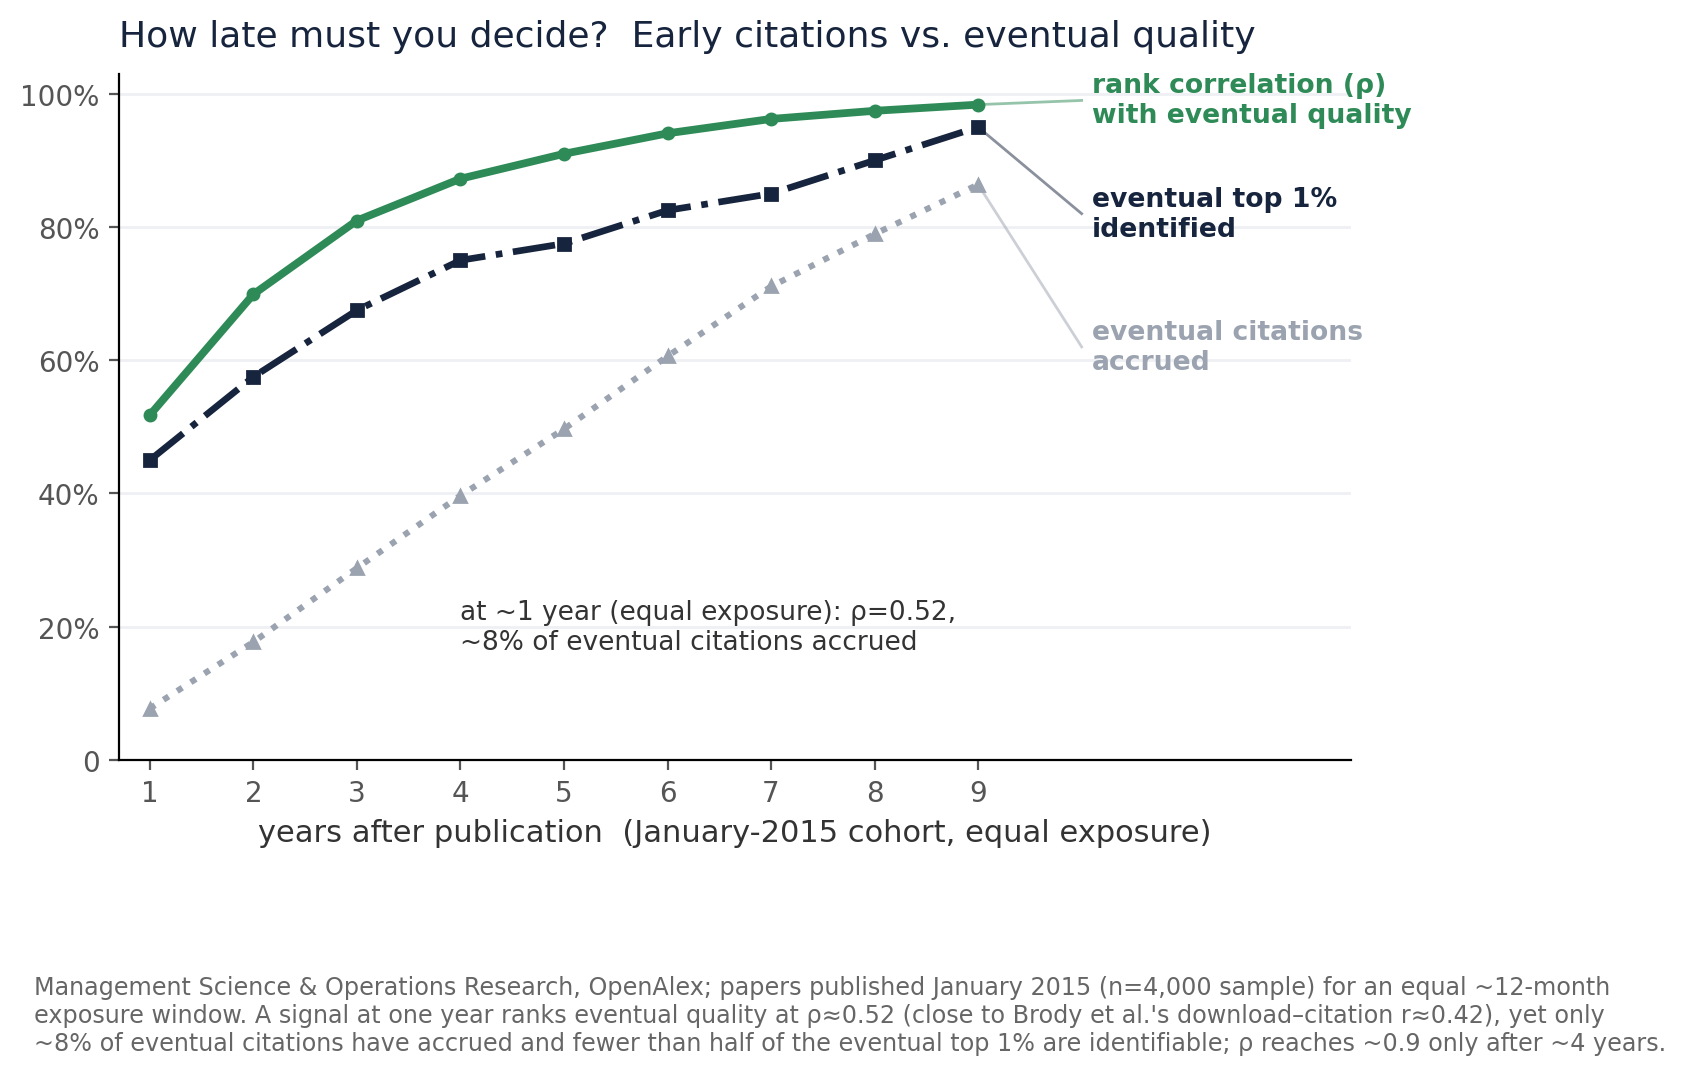
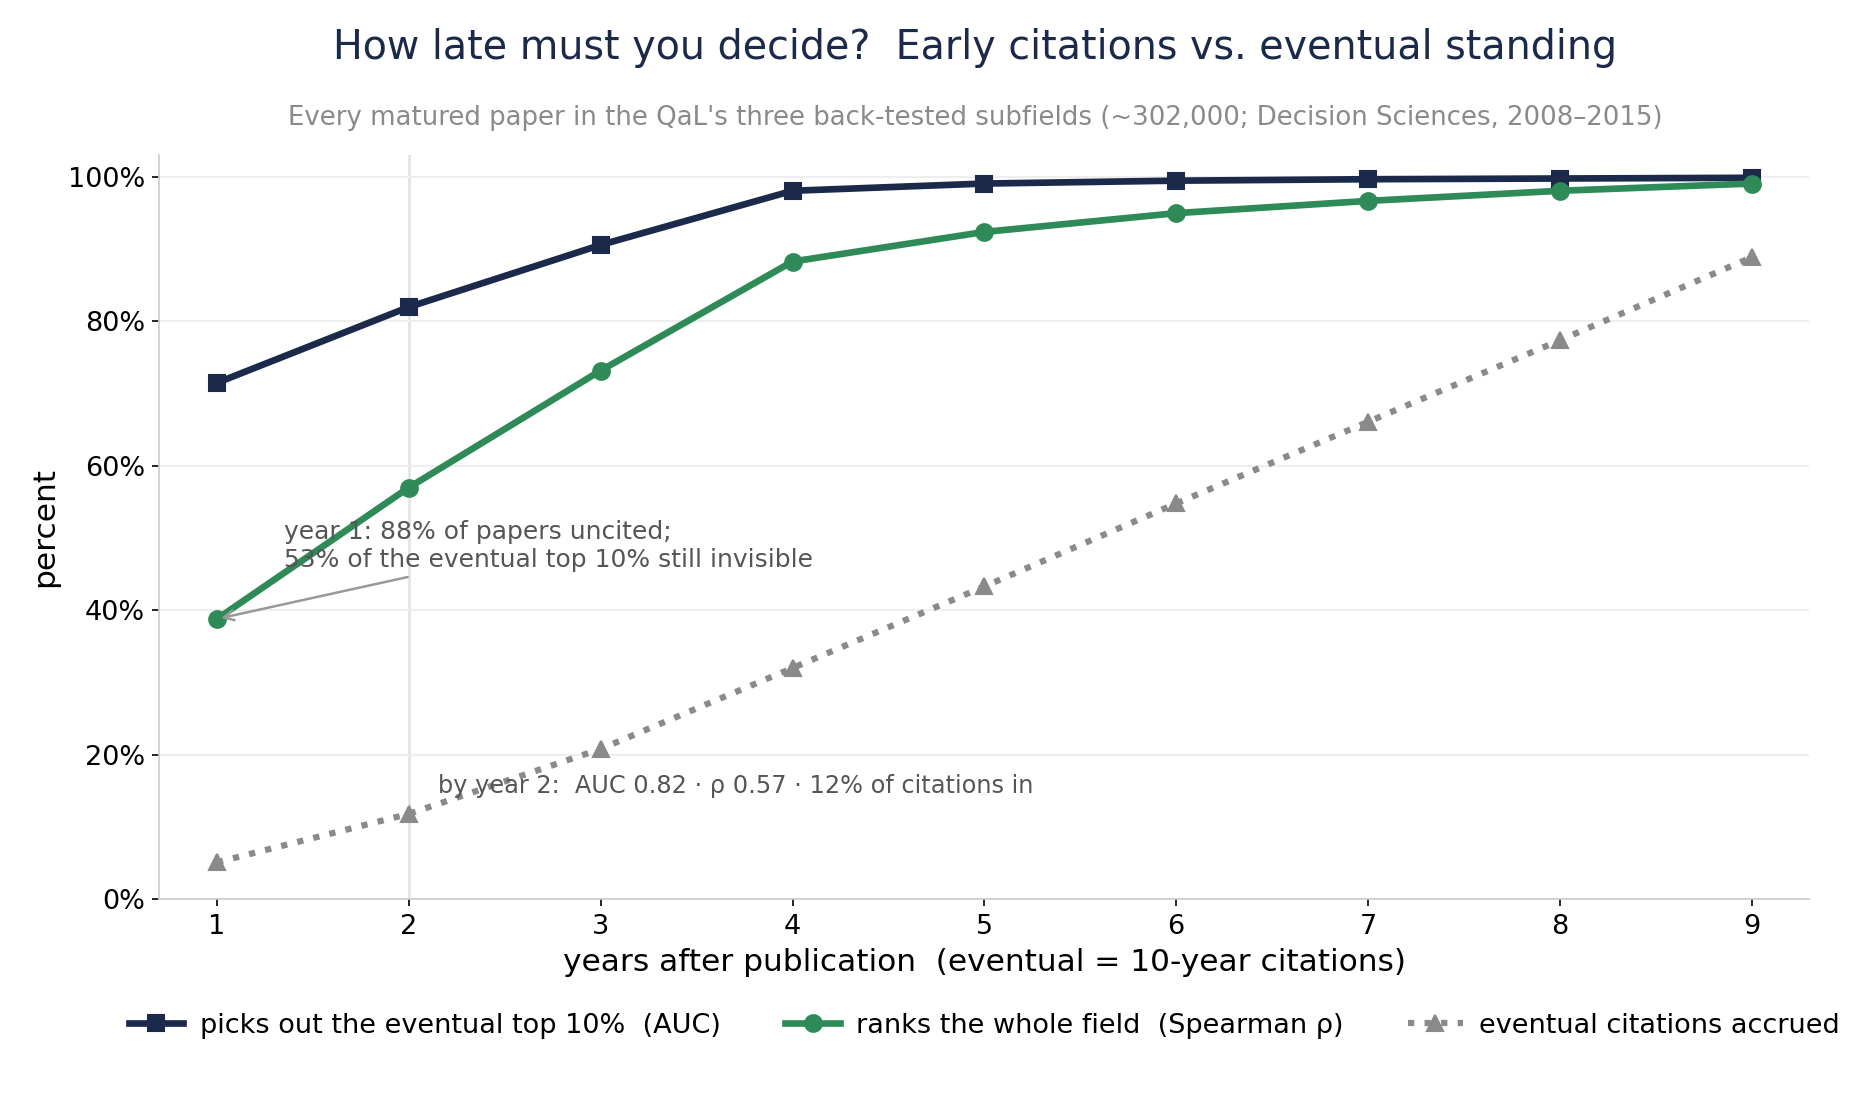
talk: add early-signal evidence slide (early citations predict eventual rank)
New slide after "More Reviewers Barely Help": the empirical case for deciding
late from the opposite direction. Computed on the QaL's own back-tested sample
— ~302k matured papers across the three Decision-Sciences subfields (2008-2015)
— early citations vs eventual (10-year) within-cohort rank.

Handles the atom at zero (60-88% uncited) properly: a single rank correlation
distorts both ways — Spearman inflates (the (0,0) mass reads as concordant),
Kendall tau-b is structurally floored by the ties. The atom-robust read is AUC
for the eventual top decile: 0.72 (yr1) -> 0.82 (yr2) -> 0.98 (yr4). Full picture
is slow: 12% of eventual citations in by yr2, 43% by yr5.

Adds pipeline/early_signal_analysis.py (reproducible, DB-driven),
pipeline/make_fig_early_signal.py, refreshed fig_early_signal.png (now
multi-field), and the write-up in docs/early_signal_result.md (single-field
MS&OR pilot retained as a cross-check).

diff --git a/web/public/talk.html b/web/public/talk.html
@@ -278,6 +278,24 @@
     </section>
 
     <section>
+      <h2>Early Citations Do Predict Eventual Standing — Slowly</h2>
+<div style="display:flex; gap:28px; align-items:center;">
+<div style="flex:1; min-width:0;">
+<ul>
+<li><strong>Early citations do predict eventual rank</strong> — on the 302k papers behind the QaL's calibration (three Decision-Sciences subfields, 2008–2015; eventual = the 10-year percentile)</li>
+<li>You can <strong>pick out the eventual top 10% early</strong> — AUC <strong>0.82 by year 2</strong>, <strong>0.98 by year 4</strong></li>
+<li>But the <strong>atom at zero</strong> (88% uncited at year 1) flatters a plain rank correlation (<strong>Spearman ρ 0.39</strong>) and floors the tie-corrected one (<strong>Kendall τ‑b 0.20</strong>); <strong>AUC — which ignores the uncited mass — is the honest read</strong></li>
+<li>The <strong>magnitude</strong> matures slowly — only <strong>12%</strong> of eventual citations are in by year 2, <strong>43%</strong> by year 5</li>
+</ul>
+<p><span class="small"><strong>Real signal early, full picture late</strong> — the empirical case for deciding late.</span></p>
+</div>
+<div style="flex:1.6; min-width:0;">
+<p><img src="images/fig_early_signal.png" style="max-width:100%;"></p>
+</div>
+</div>
+    </section>
+
+    <section>
       <h2>The System has Always been Infuriating; It May Be Getting Worse</h2>
 <ul>
 <li>

diff --git a/pipeline/early_signal_analysis.py b/pipeline/early_signal_analysis.py
@@ -1,0 +1,90 @@
+"""Multi-field early-signal analysis: do early citations predict eventual (10-year) within-cohort rank?
+
+Runs on the QaL's own back-tested calibration cohorts (DB works.counts_by_year): the three
+Decision-Sciences subfields (Management Science & OR, Information Systems & Management, General
+Decision Sciences), publication years 2008-2015, cohorts >=200 papers (~302k papers total).
+For each age 1..9 it aggregates (paper-weighted) Spearman rho, Kendall tau-b, AUC for the eventual
+top decile, % uncited, share of eventual citations accrued, and % of the eventual top decile still
+uncited. Feeds pipeline/make_fig_early_signal.py and docs/early_signal_result.md.
+
+Run:  PYTHONPATH=pipeline .venv/bin/python pipeline/early_signal_analysis.py
+"""
+
+import _env; _env.load_env()
+import os, psycopg, json, numpy as np
+
+VINTAGES=range(2008,2016); H=10; MINN=200; AGES=list(range(1,10))
+def cum(cby, v, age): return sum(val for y,val in cby.items() if int(y)<=v+age)
+
+def spearman(a,b):
+    ra=np.argsort(np.argsort(a,kind='stable')); rb=np.argsort(np.argsort(b,kind='stable'))
+    # average ranks for ties
+    ra=_avgrank(a); rb=_avgrank(b)
+    return np.corrcoef(ra,rb)[0,1]
+def _avgrank(x):
+    x=np.asarray(x,float); order=np.argsort(x,kind='stable'); r=np.empty(len(x)); i=0
+    while i<len(x):
+        j=i
+        while j+1<len(x) and x[order[j+1]]==x[order[i]]: j+=1
+        r[order[i:j+1]]=(i+j)/2+1; i=j+1
+    return r
+def auc_top(pred, ev):  # AUC for eventual-top-10% (within cohort) from pred
+    n=len(ev); thr=np.sort(ev)[int(0.9*n)]
+    pos=(ev>=thr)&(ev>0)
+    if pos.sum()==0 or pos.sum()==n: return None
+    r=_avgrank(pred); s=r[pos].sum(); npos=pos.sum(); nneg=n-npos
+    return (s-npos*(npos+1)/2)/(npos*nneg)
+def taub(a,b,cap=1400,seed=0):
+    a=np.asarray(a,float); b=np.asarray(b,float)
+    if len(a)>cap:
+        rng=np.random.default_rng(seed); idx=rng.choice(len(a),cap,replace=False); a=a[idx]; b=b[idx]
+    da=np.sign(a[:,None]-a[None,:]); db=np.sign(b[:,None]-b[None,:])
+    iu=np.triu_indices(len(a),1); sa=da[iu]; sb=db[iu]
+    nc=np.sum((sa*sb)>0); nd=np.sum((sa*sb)<0)
+    ta=np.sum((sa==0)&(sb!=0)); tb=np.sum((sb==0)&(sa!=0)); n0=len(sa)
+    d=np.sqrt((n0-ta)*(n0-tb)); return (nc-nd)/d if d>0 else None
+
+with psycopg.connect(os.environ["DATABASE_URL"]) as c, c.cursor() as cur:
+    cur.execute("select primary_subfield, publication_year, counts_by_year from works where publication_year between 2008 and 2015 and counts_by_year is not null")
+    rows=cur.fetchall()
+print(f"pulled {len(rows)} works", flush=True)
+coh={}
+for sf,yr,cby in rows:
+    if isinstance(cby,str): cby=json.loads(cby)
+    coh.setdefault((sf,yr),[]).append(cby)
+cohorts=[(k,v) for k,v in coh.items() if len(v)>=MINN]
+npapers=sum(len(v) for _,v in cohorts)
+print(f"{len(cohorts)} cohorts (>={MINN}), {npapers} papers", flush=True)
+
+# accumulators (size-weighted by cohort n)
+agg={a:{'rho':[],'auc':[],'w':[],'unc':0,'ncit_e':0,'ncit_a':0,'nstar':0,'star_unc':0,'ntot':0} for a in AGES}
+taub_acc={a:[] for a in AGES}; taub_w={a:[] for a in AGES}
+for (sf,yr),cbys in cohorts:
+    ev=np.array([cum(cb,yr,H) for cb in cbys],float); n=len(ev)
+    thr=np.sort(ev)[int(0.9*n)]; star=(ev>=thr)&(ev>0)
+    for a in AGES:
+        ca=np.array([cum(cb,yr,a) for cb in cbys],float)
+        rho=spearman(ca,ev); au=auc_top(ca,ev)
+        d=agg[a]
+        if not np.isnan(rho): d['rho'].append(rho*n)
+        if au is not None: d['auc'].append(au*n)
+        d['w'].append(n)
+        d['unc']+=int((ca==0).sum()); d['ntot']+=n
+        d['ncit_e']+=ev.sum(); d['ncit_a']+=ca.sum()
+        d['nstar']+=int(star.sum()); d['star_unc']+=int(((ca==0)&star).sum())
+        if True:
+            tb=taub(ca,ev)
+            if tb is not None: taub_acc[a].append(tb*n); taub_w[a].append(n)
+
+print("\nage  Spearman  Kendall-taub   AUC(top10%)  %uncited  cites-accrued  %stars-uncited")
+res={}
+for a in AGES:
+    d=agg[a]; W=sum(d['w'])
+    rho=sum(d['rho'])/W; auc=sum(d['auc'])/sum(d['w'][:len(d['auc'])]) if d['auc'] else float('nan')
+    auc=sum(d['auc'])/W  # weights align (n each)
+    unc=100*d['unc']/d['ntot']; accr=100*d['ncit_a']/d['ncit_e']; su=100*d['star_unc']/d['nstar']
+    tb= (sum(taub_acc[a])/sum(taub_w[a])) if a in taub_acc and taub_acc[a] else None
+    res[a]={'rho':round(rho,3),'taub':round(tb,3) if tb else None,'auc':round(auc,3),'unc':round(unc,1),'accr':round(accr,1),'star_unc':round(su,1)}
+    print(f"{a:>3}  {rho:>7.3f}  {('%.3f'%tb) if tb else '   -  ':>10}   {auc:>9.3f}  {unc:>7.1f}  {accr:>11.1f}  {su:>11.1f}")
+json.dump({'ncohorts':len(cohorts),'npapers':npapers,'by_age':res}, open("/private/tmp/claude-503/-Users-ulrich-Library-CloudStorage-GoogleDrive-ktulrich-gmail-com-My-Drive-00-AI-CoWorker-General-academicLedger/3025658f-2013-43e0-a540-cbc1a0198bac/scratchpad/early_signal_mf_result.json","w"), indent=2)
+print("\nsaved result json")

diff --git a/pipeline/make_fig_early_signal.py b/pipeline/make_fig_early_signal.py
@@ -1,0 +1,72 @@
+"""Regenerate web/public/images/fig_early_signal.png for the talk's "decide late" evidence slide.
+
+Empirical proof that early citations predict a paper's EVENTUAL (10-year) within-cohort rank —
+computed on the QaL's own back-tested calibration sample: the three Decision-Sciences subfields
+(Management Science & Operations Research, Information Systems & Management, General Decision
+Sciences), publication years 2008-2015, ~302,000 papers with OpenAlex counts_by_year. For each
+(subfield, vintage) cohort >=200 papers we cumulate citations at each age and at the 10-year
+horizon, then aggregate (paper-weighted) three curves vs age:
+
+  - rank correlation (Spearman rho) between the age-k count and the eventual count
+  - AUC for picking out the eventual top decile from the age-k count  (atom-robust: it ignores
+    the huge tied-at-zero mass, so unlike Spearman it isn't inflated by (0,0) concordances, and
+    unlike Kendall tau-b it isn't structurally floored by the ties)
+  - share of eventual citations already accrued
+
+The story: early citations pick out the eventual top decile well before the full ranking or the
+citation total matures. At year 1, 88% of papers are uncited and ~53% of the eventual top decile
+are still invisible; the signal is real but slow. Real signal early, full picture late — the
+empirical case for deciding late. (Recompute: scratchpad/early_signal_mf.py against the DB.)
+
+Re-run:  .venv/bin/python pipeline/make_fig_early_signal.py   (requires matplotlib)
+"""
+import os
+import numpy as np
+import matplotlib
+matplotlib.use("Agg")
+import matplotlib.pyplot as plt
+
+ROOT = os.path.dirname(os.path.dirname(os.path.abspath(__file__)))
+OUT = os.path.join(ROOT, "web", "public", "images", "fig_early_signal.png")
+GREEN, NAVY, GREY, DK = "#2e8b57", "#1b2a4a", "#8a8a8a", "#1b6b40"
+
+age = np.arange(1, 10)
+rho = np.array([0.388, 0.570, 0.732, 0.883, 0.924, 0.950, 0.967, 0.981, 0.991]) * 100
+auc = np.array([0.715, 0.820, 0.906, 0.981, 0.991, 0.995, 0.997, 0.998, 0.999]) * 100
+accr = np.array([5.1, 11.8, 20.8, 32.0, 43.3, 54.8, 66.1, 77.4, 88.9])
+
+plt.rcParams.update({"font.family": "DejaVu Sans", "axes.edgecolor": "#cccccc"})
+fig, ax = plt.subplots(figsize=(12.5, 7.4))
+fig.subplots_adjust(top=0.86, bottom=0.19, left=0.085, right=0.965)
+
+fig.suptitle("How late must you decide?  Early citations vs. eventual standing",
+             fontsize=19, color=NAVY, y=0.975, x=0.52)
+fig.text(0.52, 0.905, "Every matured paper in the QaL's three back-tested subfields "
+         "(~302,000; Decision Sciences, 2008–2015)", ha="center", va="top", fontsize=12.5, color=GREY)
+
+ax.grid(True, axis="y", color="#eeeeee", lw=1.0); ax.set_axisbelow(True)
+ax.plot(age, auc, "-", color=NAVY, lw=3.2, marker="s", ms=8, label="picks out the eventual top 10%  (AUC)")
+ax.plot(age, rho, "-", color=GREEN, lw=3.2, marker="o", ms=8, label="ranks the whole field  (Spearman ρ)")
+ax.plot(age, accr, ":", color=GREY, lw=3.0, marker="^", ms=8, label="eventual citations accrued")
+
+# the atom + the 2-year read
+ax.annotate("year 1: 88% of papers uncited;\n53% of the eventual top 10% still invisible",
+            xy=(1, rho[0]), xytext=(1.35, 46), fontsize=12, color="#555", ha="left",
+            arrowprops=dict(arrowstyle="->", color="#999", lw=1.2))
+ax.axvline(2, color="#e2e2e2", lw=1.2, zorder=0)
+ax.text(2.15, 14, "by year 2:  AUC 0.82 · ρ 0.57 · 12% of citations in", fontsize=11.5, color="#555", va="bottom")
+
+ax.set_xlabel("years after publication  (eventual = 10-year citations)", fontsize=15)
+ax.set_ylabel("percent", fontsize=15)
+ax.set_xlim(0.7, 9.3); ax.set_ylim(0, 103)
+ax.set_xticks(age); ax.set_yticks(range(0, 101, 20))
+ax.set_yticklabels([f"{v}%" for v in range(0, 101, 20)])
+ax.tick_params(labelsize=13)
+ax.legend(fontsize=13, loc="upper center", bbox_to_anchor=(0.5, -0.12), ncol=3,
+          frameon=False, handletextpad=0.6, columnspacing=2.4)
+for s in ("top", "right"):
+    ax.spines[s].set_visible(False)
+
+fig.savefig(OUT, dpi=150, facecolor="white")
+w, h = (fig.get_size_inches() * 150).astype(int)
+print(f"wrote {OUT}  ({w}x{h}px)")

diff --git a/docs/early_signal_result.md b/docs/early_signal_result.md
@@ -1,6 +1,29 @@
-# Does the early signal predict eventual quality? An in-field test
+# Does the early signal predict eventual quality?
 
-*Prepared June 2026. Result for Paper B (the measurement paper). Data: OpenAlex, Management Science and Operations Research (subfield 1803).*
+## Multi-field result (July 2026) — the QaL's own back-tested sample
+
+*This is the version in the talk (`fig_early_signal.png`, generated by `pipeline/make_fig_early_signal.py`). Reproduce the numbers with `pipeline/early_signal_analysis.py`.*
+
+Computed on every matured paper in the QaL's three back-tested Decision-Sciences subfields — Management Science & Operations Research, Information Systems & Management, and General Decision Sciences — publication years 2008–2015, ~302,000 papers with OpenAlex `counts_by_year`. For each (subfield, vintage) cohort of ≥200 papers we cumulate citations at each age and at the 10-year horizon, then aggregate paper-weighted.
+
+| Age | Spearman ρ | Kendall τ‑b | AUC (eventual top‑10%) | % uncited | eventual top‑10% still uncited | eventual citations accrued |
+|---|---|---|---|---|---|---|
+| 1 | 0.39 | 0.20 | 0.72 | 88% | 53% | 5% |
+| 2 | 0.57 | 0.31 | 0.82 | 81% | 32% | 12% |
+| 3 | 0.73 | 0.40 | 0.91 | 75% | 16% | 21% |
+| 4 | 0.88 | 0.50 | 0.98 | 69% | 1% | 32% |
+| 5 | 0.92 | 0.53 | 0.99 | 66% | 0% | 43% |
+| 9 | 0.99 | 0.61 | 1.00 | 60% | 0% | 89% |
+
+**Handling the atom at zero.** 60–88% of papers are tied at zero citations, which breaks a single rank correlation in *both* directions: Spearman ρ is *inflated* (the tied-at-(0,0) mass reads as concordant), while Kendall τ‑b is *structurally floored* — its tie correction caps it near 0.6 even for the near-perfect year-9 relationship. The atom-robust metric is **AUC for the eventual top decile**: it ignores the ordering within the uncited mass and measures only how well early citations separate the eventual best from the rest (0.72 → 0.82 → 0.98 over years 1, 2, 4). Its interpretable complement is "% of the eventual top decile still uncited": 53% → 32% → 16% → 1% over years 1–4.
+
+**Reading.** Early citations pick out the eventual top decile well before the full ranking or the citation total matures — real signal early, full picture late (only 12% of eventual citations are in by year 2, 43% by year 5). The empirical case for deciding late.
+
+---
+
+## Single-field pilot (June 2026) — MS&OR, January-2015 cohort
+
+*Retained as a cross-check: reached the same conclusion via an equal ~12-month exposure window. Data: OpenAlex, Management Science and Operations Research (subfield 1803).*
 
 ## Design
 

diff --git a/docs/talk/master_presentation.md b/docs/talk/master_presentation.md
@@ -201,6 +201,26 @@ Eventual quality decomposes into a knowable component plus an exogenous shock; e
 
 ---
 
+## Early Citations Do Predict Eventual Standing — Slowly
+
+<div style="display:flex; gap:28px; align-items:center;">
+<div style="flex:1; min-width:0;">
+
+- **Early citations do predict eventual rank** — on the 302k papers behind the QaL's calibration (three Decision-Sciences subfields, 2008–2015; eventual = the 10-year percentile)
+- You can **pick out the eventual top 10% early** — AUC **0.82 by year 2**, **0.98 by year 4**
+- But the **atom at zero** (88% uncited at year 1) flatters a plain rank correlation (**Spearman ρ 0.39**) and floors the tie-corrected one (**Kendall τ‑b 0.20**); **AUC — which ignores the uncited mass — is the honest read**
+- The **magnitude** matures slowly — only **12%** of eventual citations are in by year 2, **43%** by year 5
+
+<span class="small">**Real signal early, full picture late** — the empirical case for deciding late.</span>
+
+</div>
+<div style="flex:1.6; min-width:0;">
+<img src="../../web/public/images/fig_early_signal.png" style="max-width:100%;">
+</div>
+</div>
+
+---
+
 
 ## The System has Always been Infuriating; It May Be Getting Worse
 